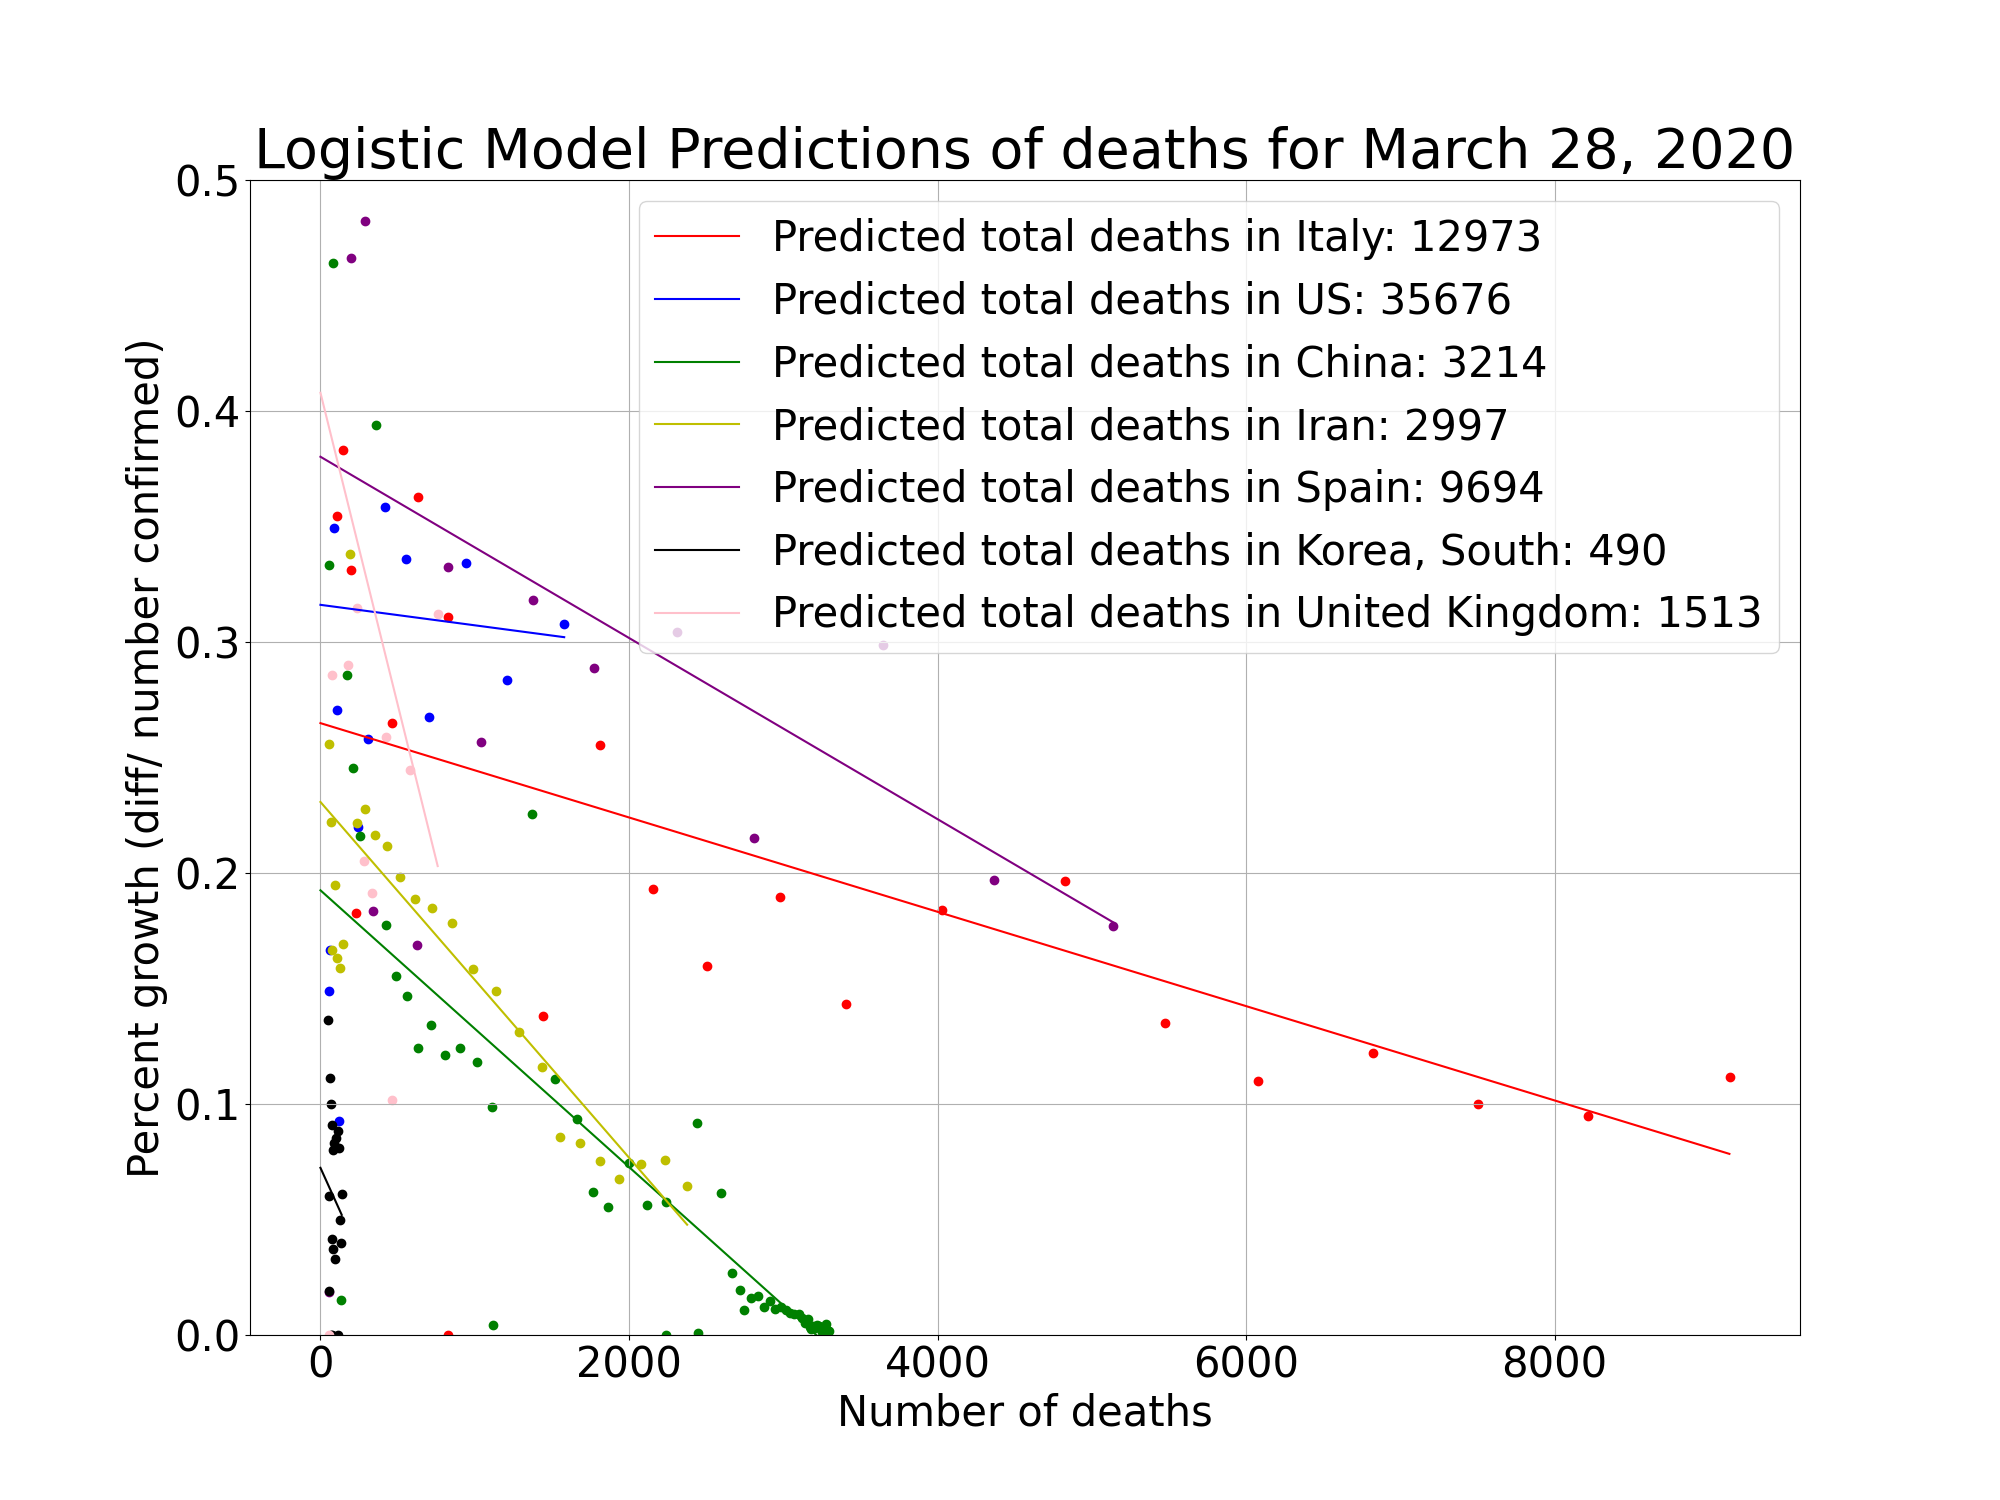
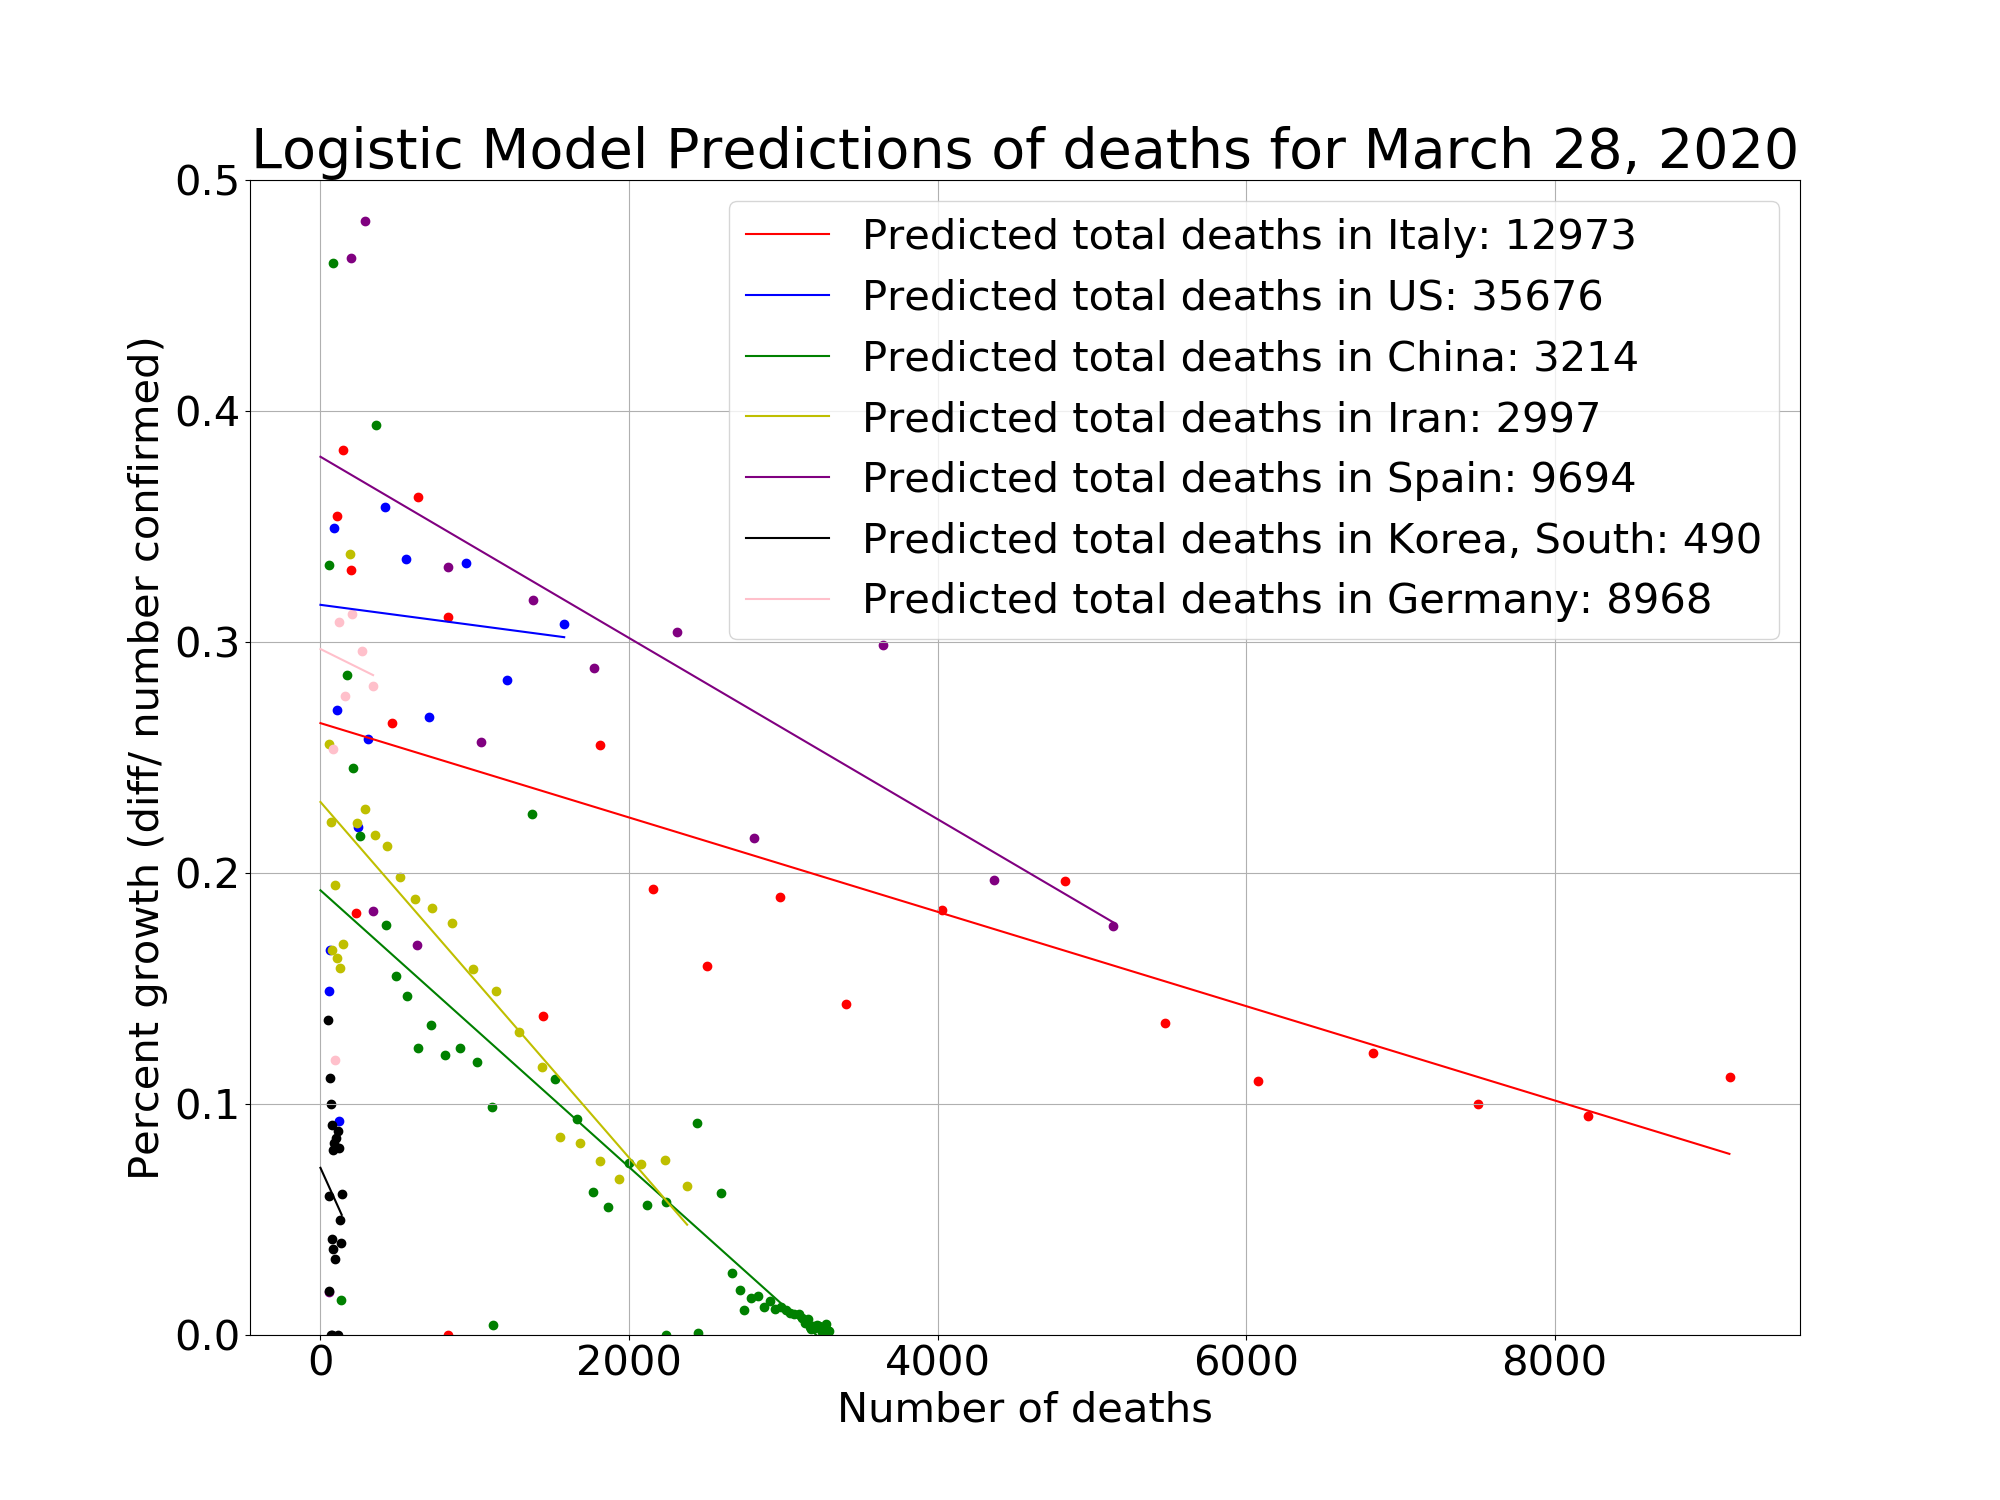
auto update

diff --git a/update_plots.py b/update_plots.py
@@ -25,7 +25,7 @@ plt.rcParams.update({'font.size': 30})
 for data_type in ('cases', 'deaths'):
     legends = []
     plt.figure(figsize=(20, 15))
-    for country, color in (('Italy', 'r'), ('US', 'b'), ('China', 'g'), ('Iran', 'y'), ('Spain', 'purple'), ('Korea, South', 'black'), ('United Kingdom', 'pink')):
+    for country, color in (('Italy', 'r'), ('US', 'b'), ('China', 'g'), ('Iran', 'y'), ('Spain', 'purple'), ('Korea, South', 'black'), ('Germany', 'pink')):
         def filter(x):
             return country == x['Country/Region']
         selected_data = d[d.apply(filter, axis=1)]
